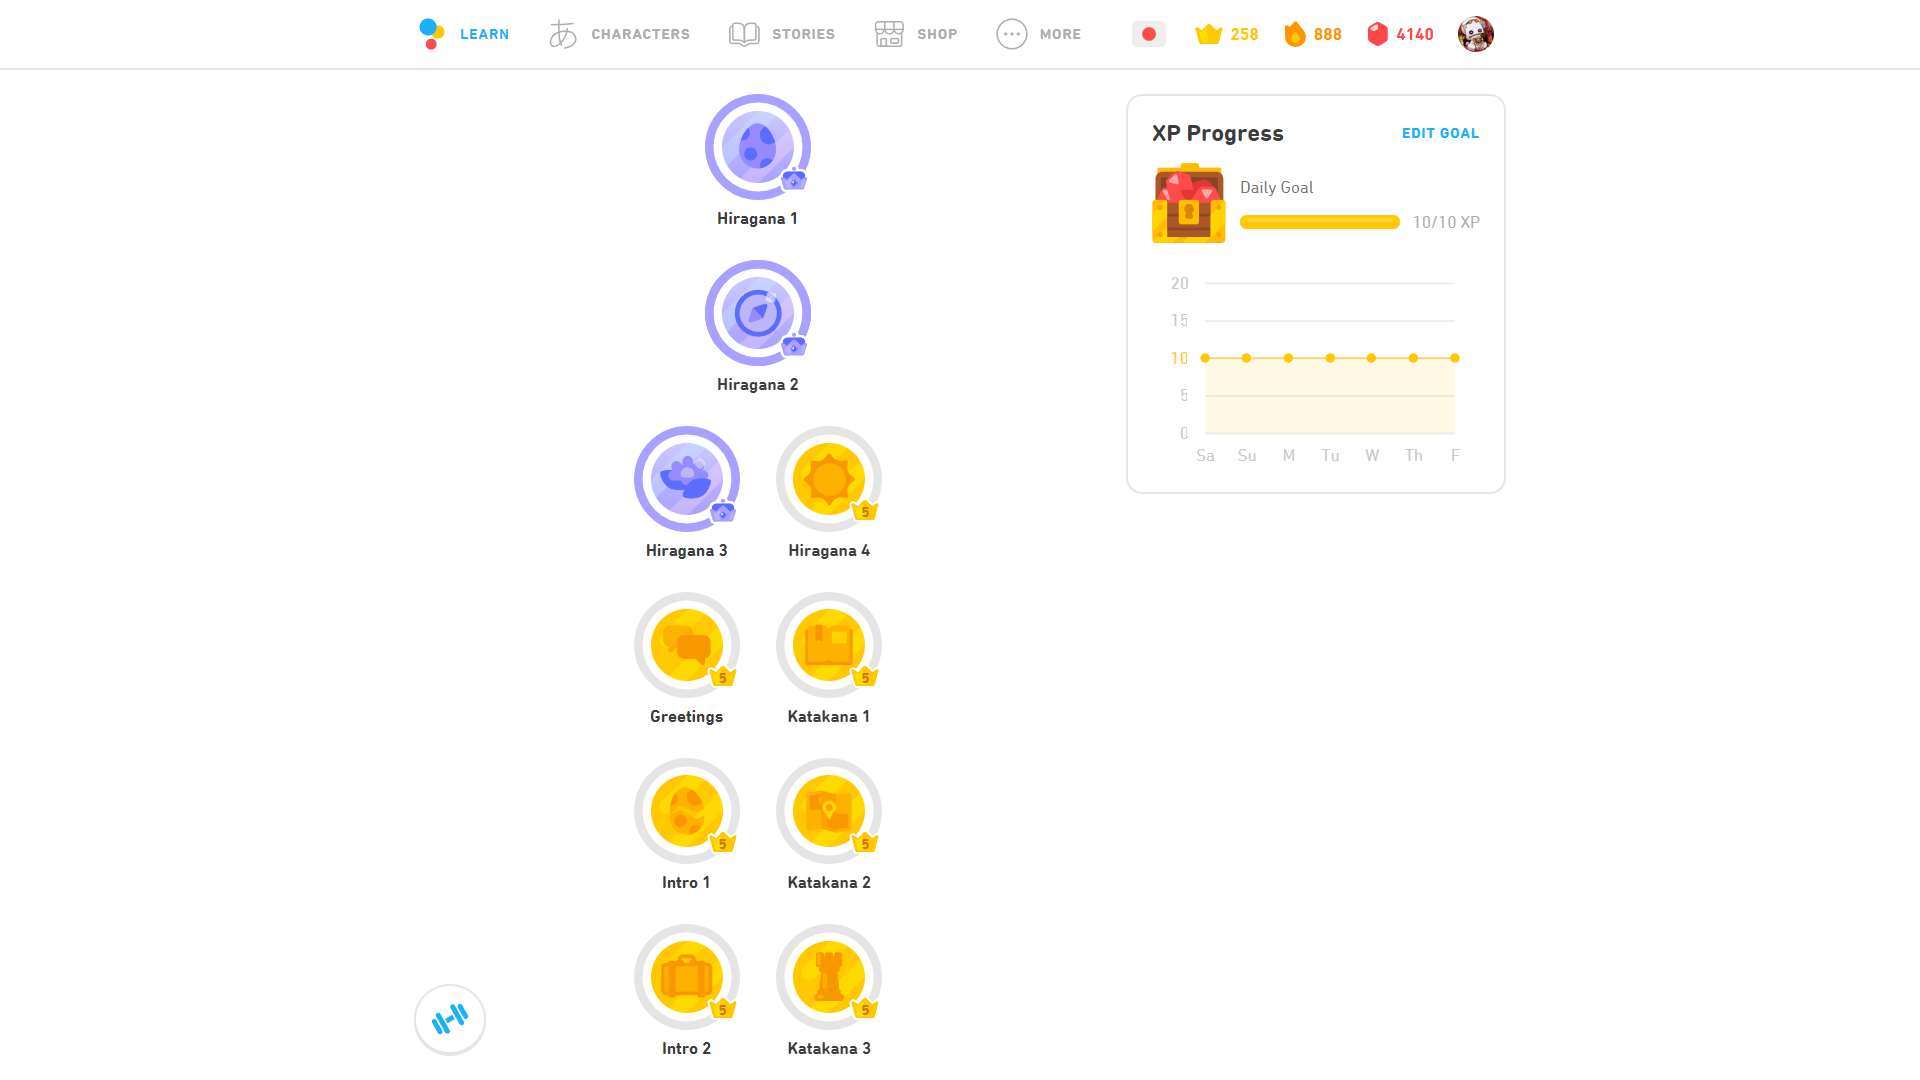
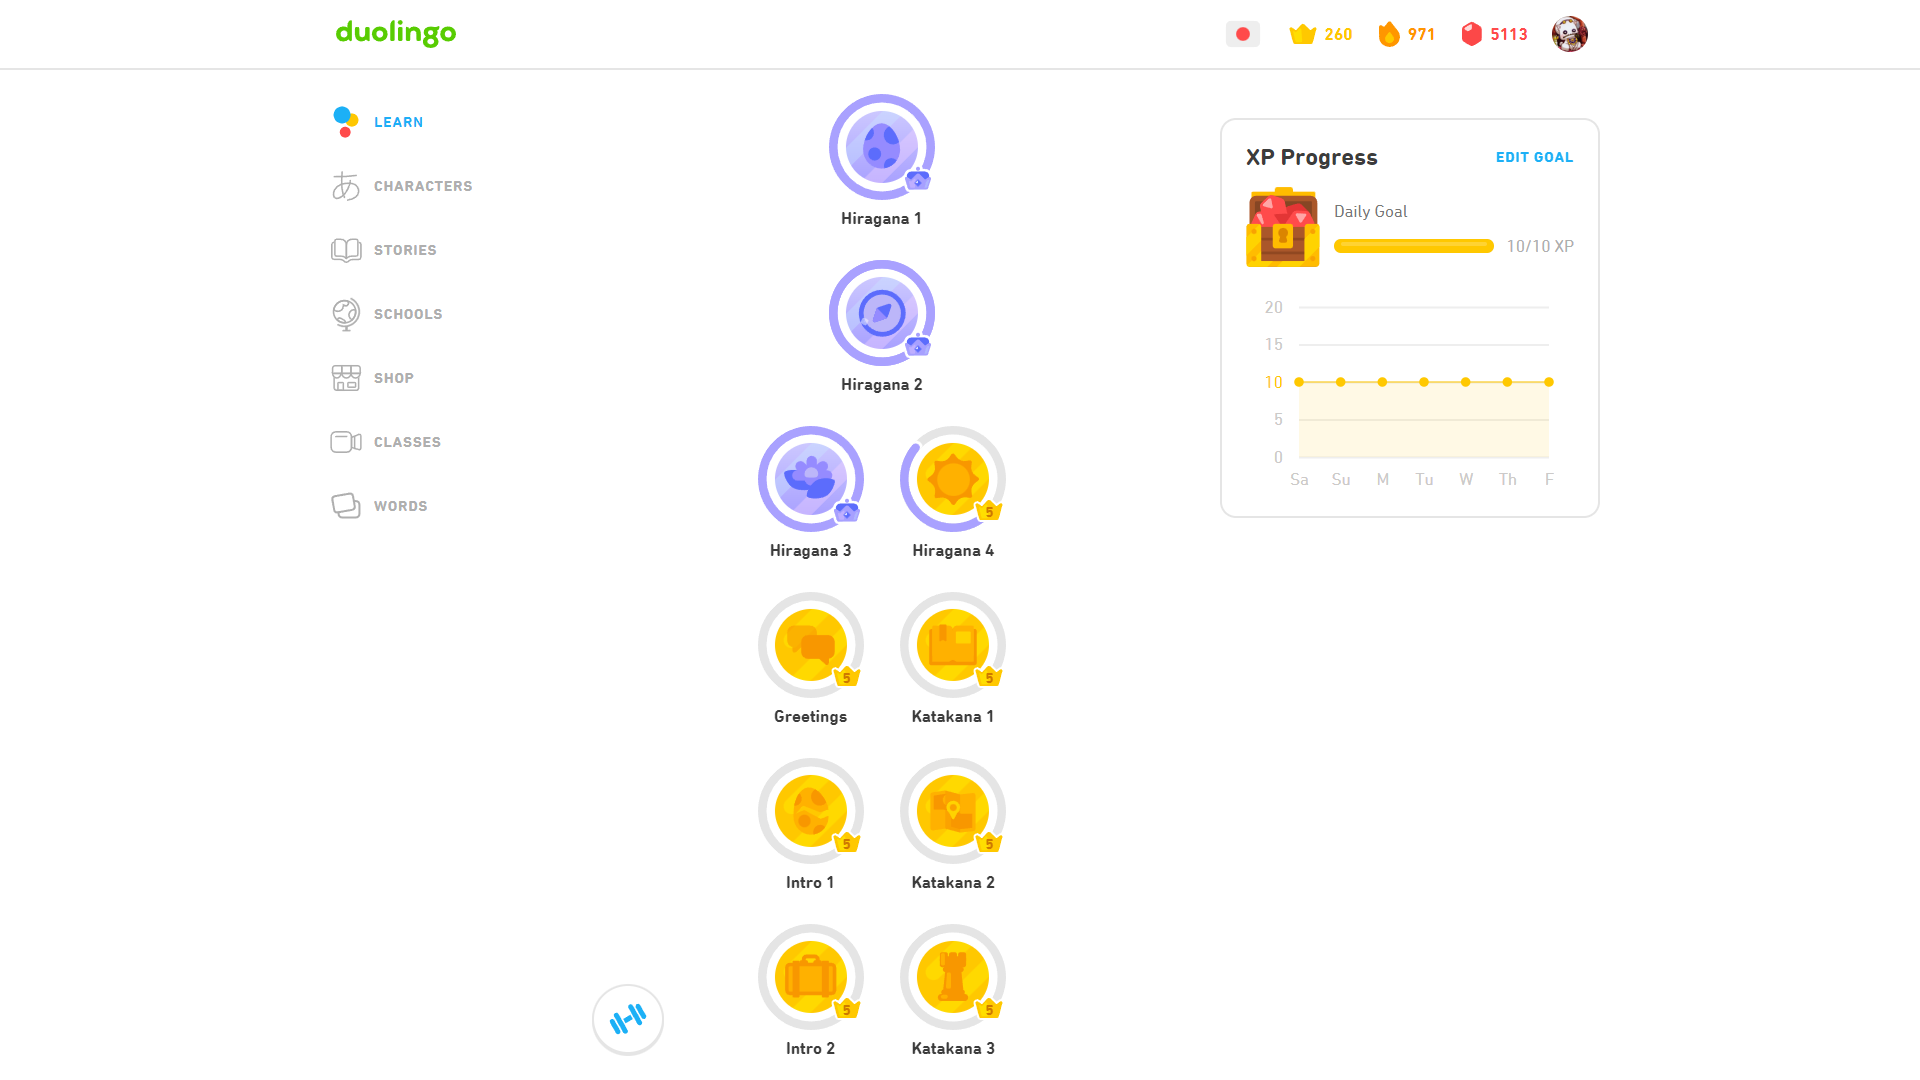
Updated duolingo-customization to account for the latest changes.

diff --git a/duolingo/duolingo-customization/duolingo-customization.user.css b/duolingo/duolingo-customization/duolingo-customization.user.css
@@ -3,7 +3,7 @@
 @namespace      https://github.com/jesuscc1993/
 @author         MetalTxus
 @description    Provides some extra customization options for Duolingo.
-@version        2022.09.21.20.02
+@version        2022.10.14.21.37
 @license        CC BY-SA 4.0
 @preprocessor   stylus
 
@@ -58,48 +58,42 @@
 
 	/* leages */
 	if (hide-leagues) {
-		#root > div > div:nth-child(5) > div > div:nth-child(1) > div:nth-child(1) > div:nth-child(1),
-		#root > div > div:nth-child(5) > div > div:nth-child(2) > div:nth-child(1) > div:nth-child(1) > div:nth-child(1) > div:nth-child(1) {
+    #root > div > div > div:nth-child(2) > div > div._1YfQ8._1FaGz > div > div:nth-child(1) > div {
 			display: none;
 		}
 	}
 
 	/* goals */
 	if (hide-goals) {
-		#root > div > div:nth-child(5) > div > div:nth-child(1) > div:nth-child(1) > div:nth-child(2),
-		#root > div > div:nth-child(5) > div > div:nth-child(2) > div:nth-child(1) > div:nth-child(1) > div:nth-child(1) > div:nth-child(2) {
+    #root > div > div > div:nth-child(2) > div > div._1YfQ8._1FaGz > div > div:nth-child(2) > div {
 			display: none;
 		}
 	}
 
 	/* premium */
 	if (hide-premium) {
-		#root > div > div:nth-child(5) > div > div:nth-child(1) > div:nth-child(1) > div:nth-child(3),
-		#root > div > div:nth-child(5) > div > div:nth-child(2) > div:nth-child(1) > div:nth-child(1) > div:nth-child(1) > div:nth-child(3) {
+    #root > div > div > div:nth-child(2) > div > div._1YfQ8._1FaGz > div > div:nth-child(3) > div {
 			display: none;
 		}
 	}
 
 	/* achievements */
 	if (hide-achievements) {
-		#root > div > div:nth-child(5) > div > div:nth-child(1) > div:nth-child(1) > div:nth-child(4),
-		#root > div > div:nth-child(5) > div > div:nth-child(2) > div:nth-child(1) > div:nth-child(1) > div:nth-child(1) > div:nth-child(4) {
+    #root > div > div > div:nth-child(2) > div > div._1YfQ8._1FaGz > div > div:nth-child(4) > div {
 			display: none;
 		}
 	}
 
 	/* friends */
 	if (hide-friends) {
-		#root > div > div:nth-child(5) > div > div:nth-child(1) > div:nth-child(1) > div:nth-child(5),
-		#root > div > div:nth-child(5) > div > div:nth-child(2) > div:nth-child(1) > div:nth-child(1) > div:nth-child(1) > div:nth-child(5) {
+    #root > div > div > div:nth-child(2) > div > div._1YfQ8._1FaGz > div > div:nth-child(5) > div {
 			display: none;
 		}
 	}
 
 	/* follow */
 	if (hide-follow) {
-		#root > div > div:nth-child(5) > div > div:nth-child(1) > div:nth-child(1) > div:nth-child(6),
-		#root > div > div:nth-child(5) > div > div:nth-child(2) > div:nth-child(1) > div:nth-child(1) > div:nth-child(1) > div:nth-child(6) {
+    #root > div > div > div:nth-child(2) > div > div._1YfQ8._1FaGz > div > div:nth-child(6) > div {
 			display: none;
 		}
 	}
@@ -108,11 +102,11 @@
 		margin-top: 0;
 		/* to counter hiding the add on top */
 	}
-
-	#root > div > div:nth-child(5) > div > div:nth-child(1) > div:nth-child(1) > div:nth-child(1) ._2eeKH {
-		border-radius: 50%;
-		overflow: hidden;
-	}
+  
+  /* hide top shop add */
+  #root > div._1R67g._3YKTw > div > div:nth-child(2) > div > div._33Mo9 > div._2TlMB > div > div {
+    display: none;
+  }
 
 	/* hide results adds column */
 	._1jZrU {
